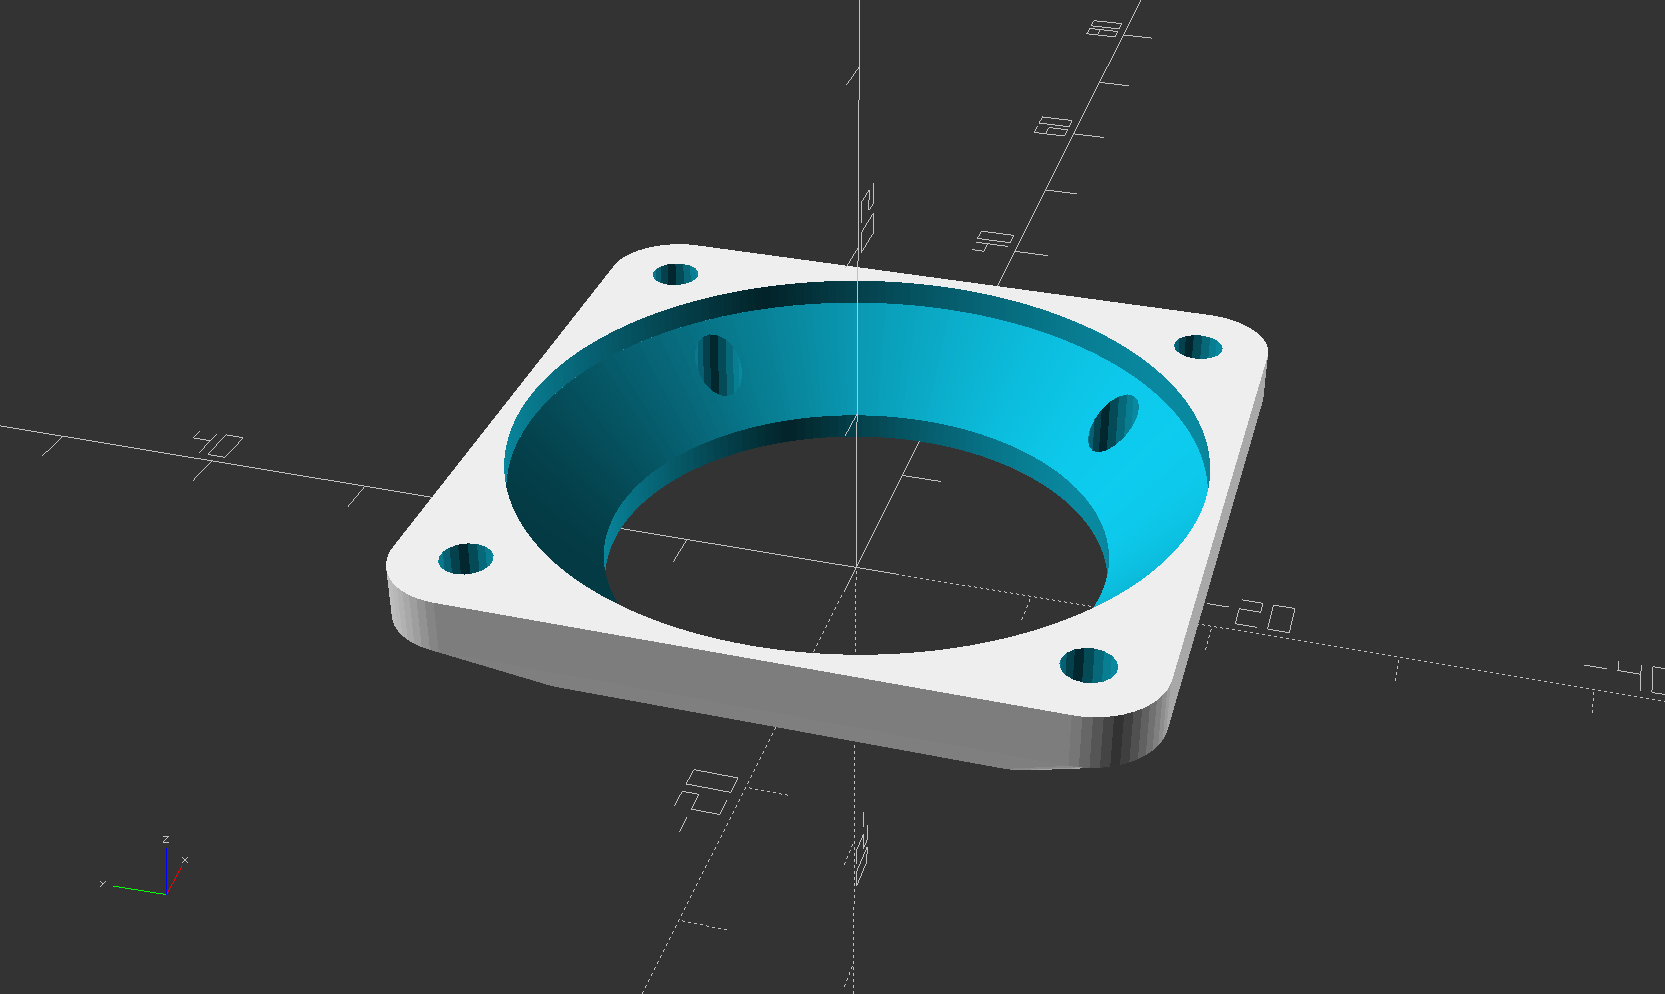
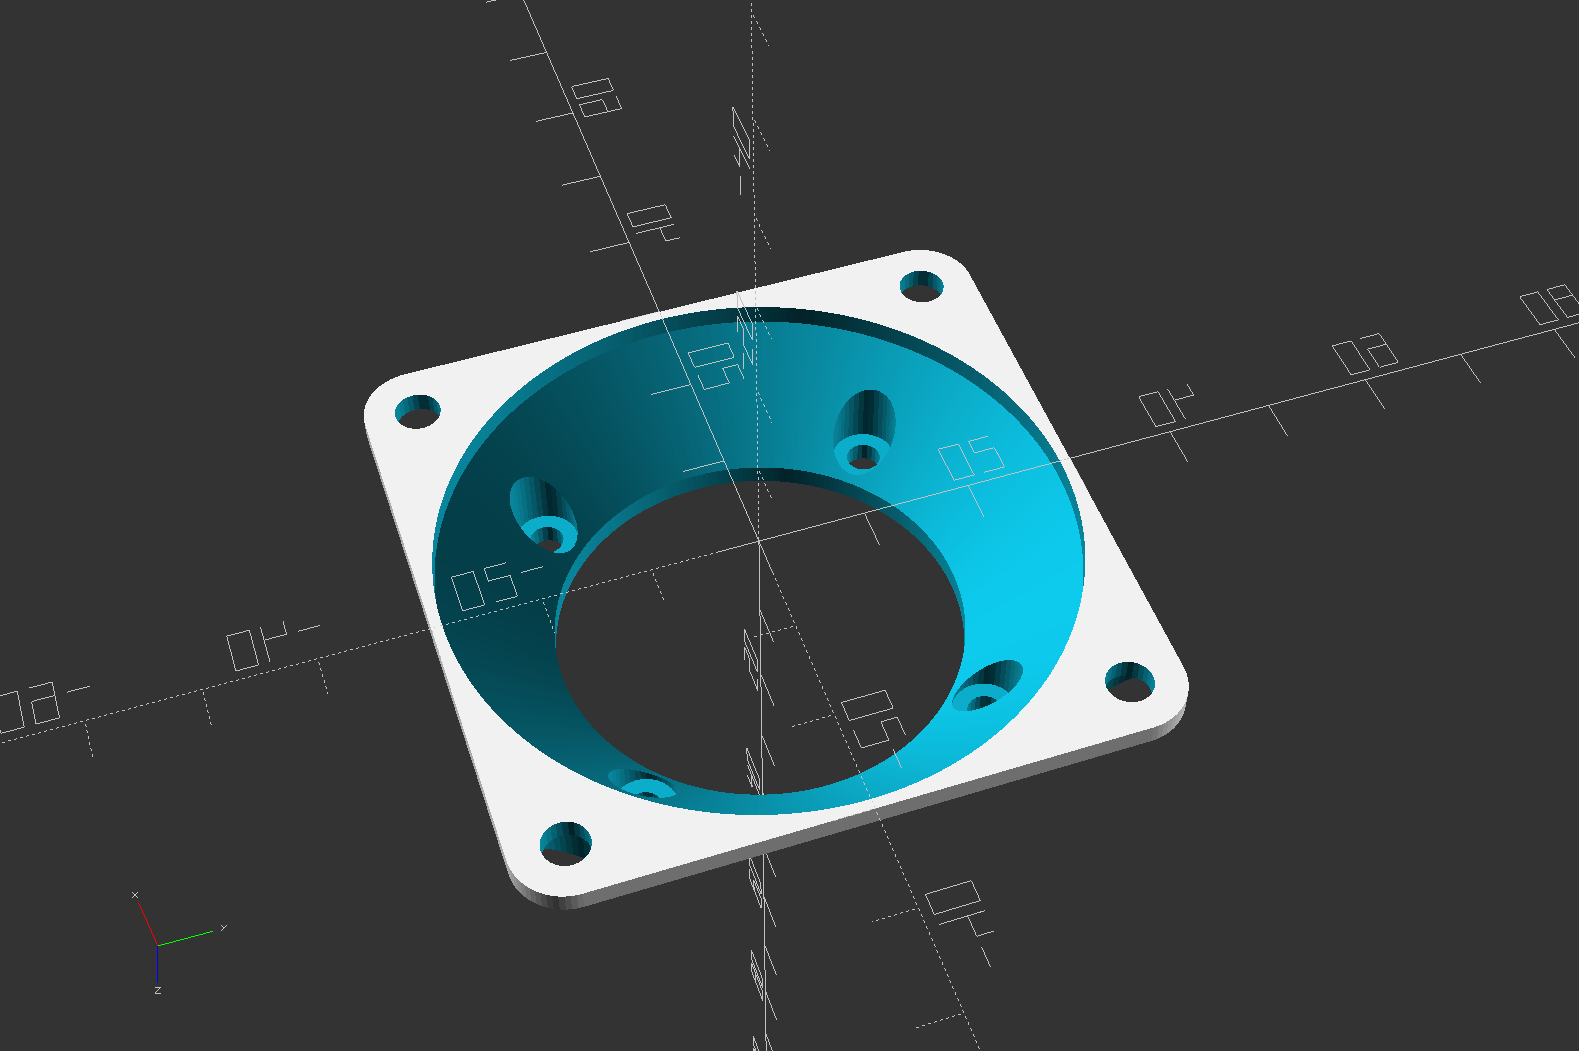
more options

diff --git a/README.md b/README.md
@@ -2,54 +2,70 @@
 OpenSCAD model to generate adapters between any 2 standard computer fan sizes.  
 ![](fan_adapter_lgup.png)
 ![](fan_adapter_smup.png)
-![](fan_adapter_lgup_2.png)
-![](fan_adapter_smup_2.png)
 
 <!-- STL's for printing are in [releases](../../releases)  -->
 <!-- [thingiverse](https://www.thingiverse.com/thing:_____) -->
 
 ## Settings
+All dimensions in mm.
 
+### Required
 **small_fan_size**  
 **large_fan_size**  
 One of the following standard fan sizes  
 ```20, 25, 30, 35, 38, 40, 45, 50, 60, 70, 80, 92, 120, 135, 140, 150, 160, 176, 180, 200, 205, 225, 230, 250```
 
-The rest of the settings are optional.
+### Optional  
+The rest of these settings have reasonable defaults or automatic values, and these are manual overrides to customize the adapter more.
 
-**small_mount_hole_size**  
-**large_mount_hole_size**  
-Nominal fastener size like 3 or 4 for M3 or M4 etc, not the exact hole diameter. The actual hole diameter may be smaller, or exact, or larger, depending on **\*\_mount_hole_type** below.  
-```auto or -1``` automatically determined from the fan size  
-```none or 0``` do not make any screw holes  
+**small_bolt_pattern**  
+**large_bolt_pattern**  
+Override the bolt pattern spacing.  
+Example: Standard 140mm fan bolt pattern is 125mm, but some 140mm fans have the 120mm fan bolt pattern, 105mm.  
+If you have one of those, specify 105 here to override getting 125 automatically.  
+```auto or -1``` Automatically determined from the fan size.
+
+**small_screw_size**  
+**large_screw_size**  
+Fastener size like 4 for M4 screws, not the exact hole diameter. The actual hole diameter will be smaller or exact or larger, depending on **\*\_mount_hole_type** .  
+```auto or -1``` Automatically determined from the fan size.  
+```none or 0``` Do not make any screw holes.  
 
 **small_mount_hole_type**  
 **large_mount_hole_type**  
-How to interpret **\*\_mount_hole_size** to make the mount holes.  
-```thread or 1``` Holes will be smaller than **\*\_mount_hole_size** so that the screw cuts threads into the plastic. Example, if the nominal screw size is "M3" aka 3mm, the hole will be 2.8mm so that an M3 screw cuts threads into the plastic.  
-```exact or 2``` Holes will be exactly **\*\_mount_hole_size**. Not usually what you want, but the option exists as a manual override for odd screw sizes or threaded inserts etc.  
-```pass or 3``` - Holes will be larger than **\*\_mount_hole_size** so that the screw passes through the hole.
+How to interpret **\*\_screw_size** to get the actual hole diameter to drill.  
+```thread or 1``` Holes will be smaller than **\*\_screw_size** so that the screw cuts threads into the material, and screw head pockets are disabled (just the narrow hole is drilled all the way through the part).  
+```exact or 2``` Holes will be exactly **\*\_screw_size**. Not usually what you want. This is a way to manually override and specify an arbitrary size hole exactly.  
+```through or 3``` Holes will be larger than **\*\_screw_size** so that the screw passes through the hole.
 
 **small_screw_pocket_diameter**  
 **large_screw_pocket_diameter**  
-Diameter of the pocket for a nut or screw head. Ignored if \*\_mount_hole_type=thread  
+Diameter of the pocket around the screw hole for the screw head. Ignored if \*\_mount_hole_type=thread .  
 ```auto or -1``` 2 x \*\_mount_hole_size  
-```none or 0``` No pocket, same as when \*\_mount_hole_type=thread
+```none or 0``` Disable screw head pockets.
 
 **small_flange_thickness**  
 **large_flange_thickness**  
-Thickness of material under screw head. No effect when there is no pocket.  
-```auto or -1``` use **minimum_screw_flange_thickness**
+Thickness of material under screw head. Only affects holes that have a screw head pocket.  
+```default or -2 or auto or -1``` Use **default_flange_thickness**
 
-**additional_thickness**  
-Add this much thickness to the adapter, beyond the size of the transition cone. Usually you will want this to provide more meat for the mounting screws and to make the part generally stronger.  
-```0``` produces the smallest possible adapter while still maintaining a 45 degree cone transition from large to small. This does not leave a lot of material around the screw holes.  
-```2``` for smaller sizes to ```4``` for larger sizes is a reasonable default if you don't need the slimmest possible adapter.
+**default_flange_thickness**  
+Thickness of both flanges.  
+```auto or -1``` Use **minimum_screw_flange_thickness**  
+```0``` No extra flage thickness on the faces. This is the smallest possible adapter (while still maintaining a 45 degree transition funnel), but does not leave a lot of material around the screw holes. Possibly more useful with no screw holes and use glue instead.  
+```1``` to ```4``` depending on fan sizes are reasonable values if you don't need the slimmest possible adapter. This provides more material around the screw holes and makes the part stronger.  
 
-**minimum_screw_flange_thickness**
-Minimum thickness of material under the screw heads regardless of other settings.  
+**minimum_screw_flange_thickness**  
+If any screw head pockets will be formed, this sets the thickness of material under the screw heads.  
+If **\*\_flange_thickness** is greater, the screw heads will have **\*\_flange_thickness** material under them.  
+If **\*\_flange_thickness** is less, the screw heads will have **minimum_screw_flange_thickness** material under them.  
 
 **fbp()**  
-Table of all recognized fan sizes and their assosciated bolt pattern spacing. If you want to add a new fan, here is where you add it.
+Table of all recognized fan sizes and their assosciated bolt patterns.  
 
-Both the internal cone/funnel shape and the external pyramid shape are 45 degrees, and generally do not require any supports to print. Printing large face down works slightly better.
+## Printing notes
+Both the internal cone/funnel shape and the external pyramid shape are 45 degrees, and so generally do not require any supports unless you manually change "tl" (tunnel/transition length) to a smaller value making a shallower cone angle.
+
+Printing with the large side down works slightly better.
+
+If screw head pockets are enabled, the upside down pockets come out slightly messy but not enough to matter functionally, and not enough to be worth adding supports.
